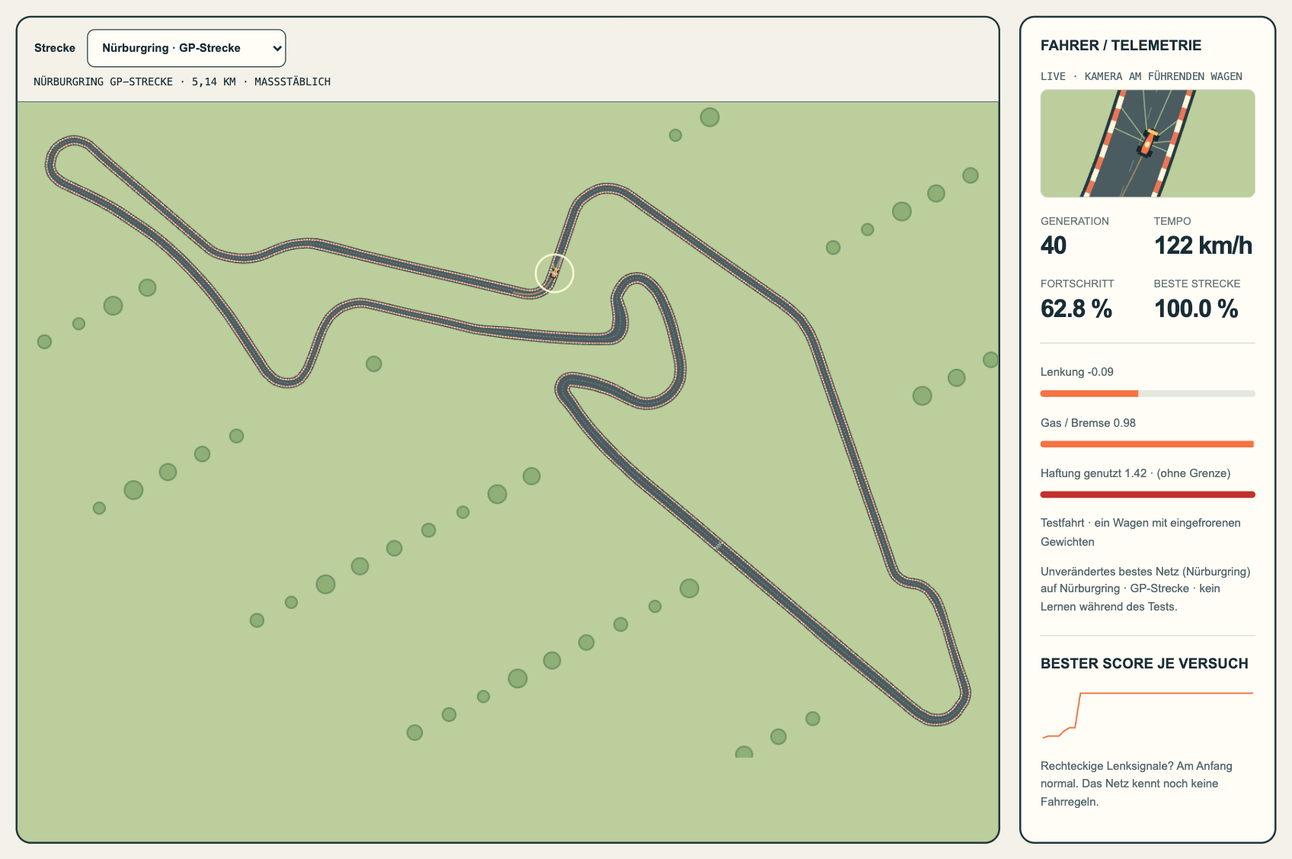
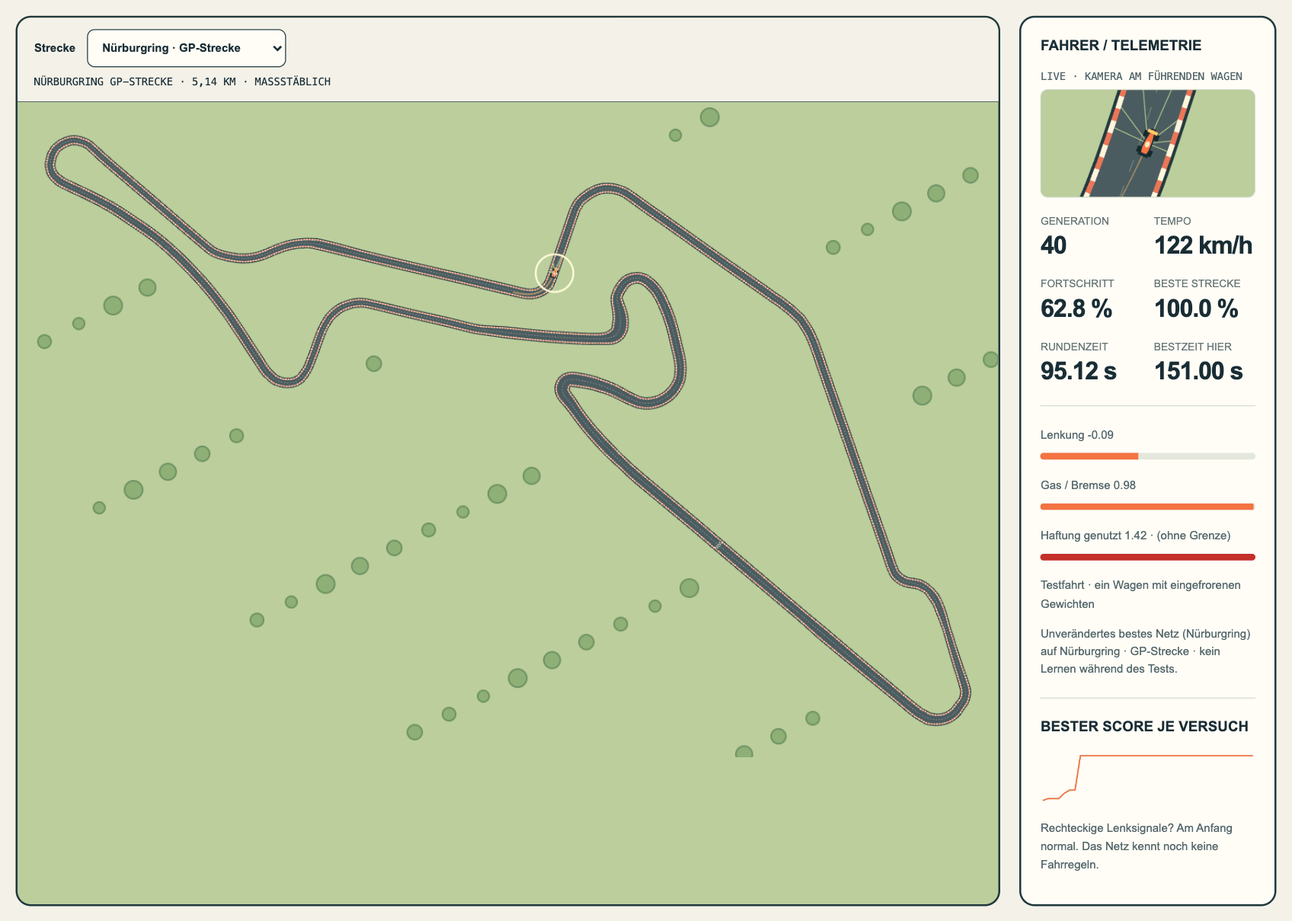
v2.6: Rundenzeit und Bestzeit je Strecke
- Telemetrie: "Rundenzeit" läuft live, "Bestzeit hier" zeigt die beste
  geschaffte Runde auf der gewählten Strecke (je Fahrer und Physik).
- Bestzeiten werden gespeichert und als bestLaps exportiert; ältere
  Dateien werden aus Test- und Trainingsprotokollen ergänzt.
- README-Bilder neu erzeugt.

diff --git a/racing-lab-v2/index.html b/racing-lab-v2/index.html
@@ -1,3 +1,3 @@
 <!doctype html><html lang="de"><meta charset="utf-8"><meta name="viewport" content="width=device-width,initial-scale=1"><title>Racing Lab v2</title><style>
 :root{font-family:Arial,sans-serif;color:#192d35;background:#f3f1e8}*{box-sizing:border-box}body{margin:0}header{padding:26px 4vw;display:flex;justify-content:space-between;align-items:center;border-bottom:2px solid #20383c}header strong{font-size:22px;letter-spacing:-1px}.tag{font:11px monospace;letter-spacing:2px}main{padding:28px 4vw;max-width:1600px;margin:auto}.intro{display:flex;justify-content:space-between;align-items:end;gap:20px}h1{font-size:clamp(30px,4vw,58px);letter-spacing:-2px;margin:10px 0}p{line-height:1.55;color:#52656a}.live{background:#dceca9;padding:9px 14px;border:1px solid #20383c;border-radius:20px;font:12px monospace;white-space:nowrap}.layout{display:grid;grid-template-columns:minmax(0,1fr) 270px;gap:20px;margin-top:24px}.arena{border:2px solid #20383c;border-radius:16px;overflow:hidden;background:#bbce9c;position:relative;min-width:0}canvas{display:block;width:100%;aspect-ratio:1.5}.race-view{position:relative;width:100%;aspect-ratio:3/2}.race-view>canvas{width:100%;height:100%;aspect-ratio:auto}.vehicle-layer{position:absolute;inset:0;width:100%;height:100%;pointer-events:none;overflow:visible;z-index:2}.car-focus{border:1px solid #d7dcd1;border-radius:8px;overflow:hidden;margin-bottom:18px;background:#bbce9c}.car-focus canvas{width:100%;height:auto;aspect-ratio:2}.focus-label{font:11px monospace;margin:0 0 7px;color:#52656a}.track-toolbar{background:#f3f1e8;border-bottom:1px solid #20383c;padding:12px 18px}.track-toolbar label{display:flex;align-items:center;gap:12px;font-size:12px;font-weight:bold}.track-toolbar select{max-width:100%;min-width:0;font-size:12px}.track-toolbar .caption{padding:8px 0 0;border:0;line-height:1.5}.caption{background:#f3f1e8;border-bottom:1px solid #20383c;padding:12px 18px;font:11px monospace;line-height:1.5}.panel{background:#fffdf6;border:2px solid #20383c;border-radius:16px;padding:20px}.panel h2{font-size:15px;margin:0 0 18px}.metrics{display:grid;grid-template-columns:1fr 1fr;gap:18px 12px}.metrics label{font-size:11px;color:#687677;display:block}.metrics b{display:block;font-size:26px;margin-top:5px;letter-spacing:-1px}button,select{font:inherit;border:1.5px solid #20383c;border-radius:8px;padding:11px;background:#fffdf6;color:#192d35;cursor:pointer}button.primary{background:#f47342;font-weight:bold;box-shadow:3px 3px 0 #20383c}button:hover{filter:brightness(.96)}button:disabled{opacity:.45;cursor:not-allowed}.controls{display:flex;gap:9px;margin-top:20px;flex-wrap:wrap;align-items:center}.controls label{font-size:12px}.bar{height:7px;background:#e4e7dc;border-radius:9px;margin:9px 0 17px;overflow:hidden}.bar i{display:block;background:#f47342;height:100%;width:0}.small{font-size:12px;line-height:1.6;color:#52656a}.divider{border-top:1px solid #d7dcd1;margin:20px 0}.status{font-size:12px;min-height:38px;margin:12px 0}.bottom{display:grid;grid-template-columns:1fr 1fr 1fr;gap:26px;margin-top:22px}.bottom h3{font-size:14px}.bottom p{font-size:13px}input{accent-color:#f47342}footer{font:11px monospace;color:#63726e;margin-top:25px}#history{height:60px;width:100%;aspect-ratio:auto} @media(max-width:850px){.layout{grid-template-columns:1fr}.panel .metrics{grid-template-columns:repeat(4,1fr)}.intro{display:block}.bottom{grid-template-columns:1fr;gap:0}.live{display:inline-block}header{padding:18px 4vw}.metrics b{font-size:22px}}
-</style><header><strong>RACING LAB<span style="color:#ed7040"> / 02</span></strong><span class="tag">LEARNING BY DRIVING</span></header><main><div class="intro"><div><span class="tag">NEURONALES FAHREXPERIMENT</span><h1>Viele Wagen. Eine Evolution.</h1><p>Abstände messen. Lenken. Weiterkommen. Die Besten vererben ihre Gewichte an die nächste Generation.</p></div><span class="live" id="badge">● BEREIT ZUM LERNEN</span></div><div class="layout"><div class="arena"><div class="track-toolbar"><label>Strecke <select id="courseSelect"><option value="training">Testkurs 01 · Training</option><option value="curves">Testkurs 02 · Wechselkurven</option><option value="oval">Testkurs 03 · Weite Bögen</option><option value="hairpin">Testkurs 04 · Enge Kurven</option><option value="reverse">Testkurs 05 · Gegenrichtung</option><option value="nuerburgring">Nürburgring · GP-Strecke</option></select></label><div class="caption" id="courseCaption">TESTKURS 01 · VOGELPERSPEKTIVE · EIN FAHRER</div></div><div class="race-view"><canvas id="race" aria-label="Rennstrecke aus der Vogelperspektive mit einem lernenden Formelwagen"></canvas><svg class="vehicle-layer" viewBox="0 0 1200 800" aria-label="Aktuelle Position des Rennwagens"><g id="collision-marker" visibility="hidden" fill="none" stroke="#e53525" stroke-width="3"><circle r="23"/><path d="M-8-8L8 8M8-8L-8 8"/></g><g id="vehicle-position" transform="translate(260 630)"><circle r="23" fill="none" stroke="#fffbd8" stroke-width="2" vector-effect="non-scaling-stroke"/><g id="vehicle-heading"><path d="M-8-7V7M8-7V7" stroke="#172a30" stroke-width="6"/><path d="M14-2L3-4L-7-4L-11-3V3L-7 4L3 4L14 2Z" id="vehicle-body" fill="#ff743a" stroke="#fff8db" stroke-width="1.3"/><path d="M12-5V5" stroke="#ffcd65" stroke-width="3"/><path d="M-12-5V5" stroke="#172a30" stroke-width="3"/><ellipse cx="-1" cy="0" rx="3" ry="2" fill="#fff8db"/></g></g></svg></div></div><aside class="panel"><h2>FAHRER / TELEMETRIE</h2><div class="focus-label" id="focusLabel">LIVE · KAMERA AM WAGEN</div><div class="car-focus"><canvas id="car-focus" width="320" height="160" aria-label="Vergrößerter Live-Ausschnitt des fahrenden Autos"></canvas></div><div class="metrics"><div><label id="attemptLabel">GENERATION</label><b id="attempt">1</b></div><div><label>TEMPO</label><b id="speed">0</b></div><div><label>FORTSCHRITT</label><b id="progress">0 %</b></div><div><label>BESTE STRECKE</label><b id="best">0 %</b></div></div><div class="divider"></div><label class="small">Lenkung <span id="steer">0.00</span></label><div class="bar"><i id="steerbar"></i></div><label class="small">Gas / Bremse <span id="pedal">0.00</span></label><div class="bar"><i id="pedalbar"></i></div><label class="small">Haftung genutzt <span id="gripUse">0.00</span></label><div class="bar"><i id="gripbar"></i></div><p id="popInfo" class="small"></p><p id="status" class="status">Ein zufälliges Netz wartet auf seinen ersten Fahrversuch.</p><div class="divider"></div><h2>BESTER SCORE JE VERSUCH</h2><canvas id="history" aria-label="Verlauf der besten Trainingsbewertung"></canvas><p class="small">Rechteckige Lenksignale? Am Anfang normal. Das Netz kennt noch keine Fahrregeln.</p></aside></div><div class="controls"><label>Fahrer <select id="driver"><option value="training">trainiert auf Testkurs 01</option><option value="nuerburgring">trainiert auf Nürburgring</option></select></label><label>Physik <select id="physics"><option value="slide">Haftung 1,5 g + Gleitreibung (v2.2)</option><option value="grip">Haftung 1,5 g ohne Gleitreibung (v2.1)</option><option value="v1">ohne Haftungsgrenze (v1)</option></select></label><label>Lernverfahren <select id="method"><option value="population">Population (genetischer Algorithmus)</option><option value="single">Einzelwagen (Hill Climbing wie v1)</option></select></label><label>Wagen <select id="popSize"><option value="20">20</option><option value="40" selected>40</option><option value="80">80</option></select></label></div><div class="controls"><button class="primary" id="toggle">Training starten ↗</button><button id="bestRun">Besten Fahrer testen</button><button id="reset">Neu beginnen</button><label>Zeitraffer <select id="rate"><option value="1">1×</option><option value="4">4×</option><option value="12">12×</option><option value="40">40×</option><option value="120">120×</option></select></label><label><input type="checkbox" id="rays" checked> Sensoren</label></div><p class="small" id="courseNotice">Training und unveränderte Testfahrten verfügbar.</p><section class="panel" style="margin-top:24px"><h2>STRECKENTEST / PRÜFPROTOKOLL</h2><p class="small">Wähle eine neue Strecke und teste den gespeicherten Fahrer. Seine Gewichte werden dabei eingefroren. Die sechs Streckenprofile sind fest gespeichert und jederzeit wieder auswählbar. Testkurs 01 bleibt die Trainingsstrecke. Für jeden Test werden Datum, Strecke, Physik, Lernverfahren, Streckenfortschritt, Fahrzeit und Ergebnis protokolliert. Die zuletzt gewählte Strecke wird in diesem Browser gemerkt.</p><div id="transferResults" class="small" style="white-space:pre-line;overflow-wrap:anywhere">Noch keine Testfahrt abgeschlossen.</div></section><section class="panel" style="margin-top:24px"><h2>DAS NETZ / LIVE</h2><p class="small">Links: sieben Abstände, Tempo und Drehrate. Mitte: zehn versteckte Neuronen. Rechts: Lenkung und Fahrpedal. Orange = positiv, Blau = negativ. Linienbreite = Betrag des Gewichts. Knotenfarbe = Aktivierung. Gewichte ändern sich nach einem Versuch, Aktivierungen während der Fahrt.</p><canvas id="network" style="width:100%;aspect-ratio:2.7" aria-label="Neuronales Netz mit Eingängen, Gewichten und Aktivierungen"></canvas><div class="controls"><button id="exportLog">Protokoll als JSON</button><button id="exportCsv">Versuche als CSV</button><button id="importLog" type="button">JSON-Stand laden</button><input id="importFile" type="file" accept="application/json,.json" hidden><span class="small" id="logCount">0 protokollierte Versuche</span></div><p class="small" id="storageStatus" role="status">Trainingsstand wird nach dem ersten abgeschlossenen Versuch in diesem Browser gespeichert.</p><p class="small" id="weightDetail">Eine Verbindung anklicken, um ihren exakten Gewichtswert zu sehen. JSON enthält Netzgewichte pro Versuch sowie die letzten 10.000 Sensor- und Aktionsstichproben (5 Hz Simulationszeit). Das beste Netz, Scores und die letzten 200 Versuche werden nach jedem Lauf im Browser gespeichert. Die letzten 1.000 Messpunkte werden mitgespeichert; für ein vollständigeres Protokoll regelmäßig JSON exportieren. CSV enthält die Versuchsergebnisse. Mit „JSON-Stand laden“ kannst du einen früheren Export übernehmen. „Neu beginnen“ löscht den gespeicherten Stand.</p></section><div class="bottom"><div><h3>01 / Was der Fahrer sieht</h3><p>Sieben virtuelle Abstandssensoren, Geschwindigkeit und Drehrate. Das Netz erhält keine Streckenkarte und keine vorgegebene Ideallinie.</p></div><div><h3>02 / Wie er lernt</h3><p>Ein kleines Netz mit zehn versteckten Neuronen steuert Lenkung und Fahrpedal. Viele Wagen fahren gleichzeitig. Die besten bleiben unverändert (Elite), der Rest entsteht durch Turnierauswahl, Kreuzung ganzer Neuronen und Mutation.</p></div><div><h3>03 / Was sich lohnt</h3><p>Vorwärtsfortschritt entlang des Kurses minus Zeitabzug. Wandkontakt beendet den Versuch. Mit Haftungsgrenze rutscht ein zu schneller Wagen in der Kurve nach außen: Er muss vorher bremsen. Ein Kursabschluss erhält einen Bonus. Standzeit und Fahrdauer sind begrenzt.</p></div></div><footer>2D-PROTOTYP · VEREINFACHTE FAHRPHYSIK · EINE FAHRZEUGLÄNGE ≈ 5,5 m · FAHRBAHNBREITE ≈ 12 m · STRECKENDATEN NÜRBURGRING: TUMFTM RACETRACK-DATABASE (LGPL-3.0), © OPENSTREETMAP-MITWIRKENDE · CODE: MIT · PRIVATES LERNPROJEKT, KEINE VERBINDUNG ZUR NÜRBURGRING GMBH</footer></main><script src="tracks/nuerburgring.js"></script><script src="sim.js?v=v2-population"></script></html>
+</style><header><strong>RACING LAB<span style="color:#ed7040"> / 02</span></strong><span class="tag">LEARNING BY DRIVING</span></header><main><div class="intro"><div><span class="tag">NEURONALES FAHREXPERIMENT</span><h1>Viele Wagen. Eine Evolution.</h1><p>Abstände messen. Lenken. Weiterkommen. Die Besten vererben ihre Gewichte an die nächste Generation.</p></div><span class="live" id="badge">● BEREIT ZUM LERNEN</span></div><div class="layout"><div class="arena"><div class="track-toolbar"><label>Strecke <select id="courseSelect"><option value="training">Testkurs 01 · Training</option><option value="curves">Testkurs 02 · Wechselkurven</option><option value="oval">Testkurs 03 · Weite Bögen</option><option value="hairpin">Testkurs 04 · Enge Kurven</option><option value="reverse">Testkurs 05 · Gegenrichtung</option><option value="nuerburgring">Nürburgring · GP-Strecke</option></select></label><div class="caption" id="courseCaption">TESTKURS 01 · VOGELPERSPEKTIVE · EIN FAHRER</div></div><div class="race-view"><canvas id="race" aria-label="Rennstrecke aus der Vogelperspektive mit einem lernenden Formelwagen"></canvas><svg class="vehicle-layer" viewBox="0 0 1200 800" aria-label="Aktuelle Position des Rennwagens"><g id="collision-marker" visibility="hidden" fill="none" stroke="#e53525" stroke-width="3"><circle r="23"/><path d="M-8-8L8 8M8-8L-8 8"/></g><g id="vehicle-position" transform="translate(260 630)"><circle r="23" fill="none" stroke="#fffbd8" stroke-width="2" vector-effect="non-scaling-stroke"/><g id="vehicle-heading"><path d="M-8-7V7M8-7V7" stroke="#172a30" stroke-width="6"/><path d="M14-2L3-4L-7-4L-11-3V3L-7 4L3 4L14 2Z" id="vehicle-body" fill="#ff743a" stroke="#fff8db" stroke-width="1.3"/><path d="M12-5V5" stroke="#ffcd65" stroke-width="3"/><path d="M-12-5V5" stroke="#172a30" stroke-width="3"/><ellipse cx="-1" cy="0" rx="3" ry="2" fill="#fff8db"/></g></g></svg></div></div><aside class="panel"><h2>FAHRER / TELEMETRIE</h2><div class="focus-label" id="focusLabel">LIVE · KAMERA AM WAGEN</div><div class="car-focus"><canvas id="car-focus" width="320" height="160" aria-label="Vergrößerter Live-Ausschnitt des fahrenden Autos"></canvas></div><div class="metrics"><div><label id="attemptLabel">GENERATION</label><b id="attempt">1</b></div><div><label>TEMPO</label><b id="speed">0</b></div><div><label>FORTSCHRITT</label><b id="progress">0 %</b></div><div><label>BESTE STRECKE</label><b id="best">0 %</b></div><div><label>RUNDENZEIT</label><b id="lapTime">0.00 s</b></div><div><label>BESTZEIT HIER</label><b id="bestLap">–</b></div></div><div class="divider"></div><label class="small">Lenkung <span id="steer">0.00</span></label><div class="bar"><i id="steerbar"></i></div><label class="small">Gas / Bremse <span id="pedal">0.00</span></label><div class="bar"><i id="pedalbar"></i></div><label class="small">Haftung genutzt <span id="gripUse">0.00</span></label><div class="bar"><i id="gripbar"></i></div><p id="popInfo" class="small"></p><p id="status" class="status">Ein zufälliges Netz wartet auf seinen ersten Fahrversuch.</p><div class="divider"></div><h2>BESTER SCORE JE VERSUCH</h2><canvas id="history" aria-label="Verlauf der besten Trainingsbewertung"></canvas><p class="small">Rechteckige Lenksignale? Am Anfang normal. Das Netz kennt noch keine Fahrregeln.</p></aside></div><div class="controls"><label>Fahrer <select id="driver"><option value="training">trainiert auf Testkurs 01</option><option value="nuerburgring">trainiert auf Nürburgring</option></select></label><label>Physik <select id="physics"><option value="slide">Haftung 1,5 g + Gleitreibung (v2.2)</option><option value="grip">Haftung 1,5 g ohne Gleitreibung (v2.1)</option><option value="v1">ohne Haftungsgrenze (v1)</option></select></label><label>Lernverfahren <select id="method"><option value="population">Population (genetischer Algorithmus)</option><option value="single">Einzelwagen (Hill Climbing wie v1)</option></select></label><label>Wagen <select id="popSize"><option value="20">20</option><option value="40" selected>40</option><option value="80">80</option></select></label></div><div class="controls"><button class="primary" id="toggle">Training starten ↗</button><button id="bestRun">Besten Fahrer testen</button><button id="reset">Neu beginnen</button><label>Zeitraffer <select id="rate"><option value="1">1×</option><option value="4">4×</option><option value="12">12×</option><option value="40">40×</option><option value="120">120×</option></select></label><label><input type="checkbox" id="rays" checked> Sensoren</label></div><p class="small" id="courseNotice">Training und unveränderte Testfahrten verfügbar.</p><section class="panel" style="margin-top:24px"><h2>STRECKENTEST / PRÜFPROTOKOLL</h2><p class="small">Wähle eine neue Strecke und teste den gespeicherten Fahrer. Seine Gewichte werden dabei eingefroren. Die sechs Streckenprofile sind fest gespeichert und jederzeit wieder auswählbar. Testkurs 01 bleibt die Trainingsstrecke. Für jeden Test werden Datum, Strecke, Physik, Lernverfahren, Streckenfortschritt, Fahrzeit und Ergebnis protokolliert. Die zuletzt gewählte Strecke wird in diesem Browser gemerkt.</p><div id="transferResults" class="small" style="white-space:pre-line;overflow-wrap:anywhere">Noch keine Testfahrt abgeschlossen.</div></section><section class="panel" style="margin-top:24px"><h2>DAS NETZ / LIVE</h2><p class="small">Links: sieben Abstände, Tempo und Drehrate. Mitte: zehn versteckte Neuronen. Rechts: Lenkung und Fahrpedal. Orange = positiv, Blau = negativ. Linienbreite = Betrag des Gewichts. Knotenfarbe = Aktivierung. Gewichte ändern sich nach einem Versuch, Aktivierungen während der Fahrt.</p><canvas id="network" style="width:100%;aspect-ratio:2.7" aria-label="Neuronales Netz mit Eingängen, Gewichten und Aktivierungen"></canvas><div class="controls"><button id="exportLog">Protokoll als JSON</button><button id="exportCsv">Versuche als CSV</button><button id="importLog" type="button">JSON-Stand laden</button><input id="importFile" type="file" accept="application/json,.json" hidden><span class="small" id="logCount">0 protokollierte Versuche</span></div><p class="small" id="storageStatus" role="status">Trainingsstand wird nach dem ersten abgeschlossenen Versuch in diesem Browser gespeichert.</p><p class="small" id="weightDetail">Eine Verbindung anklicken, um ihren exakten Gewichtswert zu sehen. JSON enthält Netzgewichte pro Versuch sowie die letzten 10.000 Sensor- und Aktionsstichproben (5 Hz Simulationszeit). Das beste Netz, Scores und die letzten 200 Versuche werden nach jedem Lauf im Browser gespeichert. Die letzten 1.000 Messpunkte werden mitgespeichert; für ein vollständigeres Protokoll regelmäßig JSON exportieren. CSV enthält die Versuchsergebnisse. Mit „JSON-Stand laden“ kannst du einen früheren Export übernehmen. „Neu beginnen“ löscht den gespeicherten Stand.</p></section><div class="bottom"><div><h3>01 / Was der Fahrer sieht</h3><p>Sieben virtuelle Abstandssensoren, Geschwindigkeit und Drehrate. Das Netz erhält keine Streckenkarte und keine vorgegebene Ideallinie.</p></div><div><h3>02 / Wie er lernt</h3><p>Ein kleines Netz mit zehn versteckten Neuronen steuert Lenkung und Fahrpedal. Viele Wagen fahren gleichzeitig. Die besten bleiben unverändert (Elite), der Rest entsteht durch Turnierauswahl, Kreuzung ganzer Neuronen und Mutation.</p></div><div><h3>03 / Was sich lohnt</h3><p>Vorwärtsfortschritt entlang des Kurses minus Zeitabzug. Wandkontakt beendet den Versuch. Mit Haftungsgrenze rutscht ein zu schneller Wagen in der Kurve nach außen: Er muss vorher bremsen. Ein Kursabschluss erhält einen Bonus. Standzeit und Fahrdauer sind begrenzt.</p></div></div><footer>2D-PROTOTYP · VEREINFACHTE FAHRPHYSIK · EINE FAHRZEUGLÄNGE ≈ 5,5 m · FAHRBAHNBREITE ≈ 12 m · STRECKENDATEN NÜRBURGRING: TUMFTM RACETRACK-DATABASE (LGPL-3.0), © OPENSTREETMAP-MITWIRKENDE · CODE: MIT · PRIVATES LERNPROJEKT, KEINE VERBINDUNG ZUR NÜRBURGRING GMBH</footer></main><script src="tracks/nuerburgring.js"></script><script src="sim.js?v=v2-population"></script></html>

diff --git a/racing-lab-v2/sim.js b/racing-lab-v2/sim.js
@@ -80,18 +80,22 @@ const label=id=>courses[id].short||courses[id].name;
 const nowIso=()=>new Date().toISOString(),day=iso=>{const d=new Date(iso||NaN),p=n=>String(n).padStart(2,'0');return isNaN(d)?'Datum unbekannt':d.getFullYear()+'-'+p(d.getMonth()+1)+'-'+p(d.getDate())+' '+p(d.getHours())+':'+p(d.getMinutes());},// Ortszeit
   algoLabel=()=>method==='single'?'Einzelwagen (Hill Climbing)':'Population (genetischer Algorithmus) · '+popSize+' Wagen';
 let origin={};// wie der aktuelle beste Fahrer entstanden ist: {date, algorithm}
+let bestLaps={};// beste Rundenzeit je Strecke (Sekunden) für diesen Fahrer und diese Physik
+const noteLap=(id,t)=>{if(Number.isFinite(t)&&!(bestLaps[id]<=t))bestLaps[id]=t;},secs=t=>t.toFixed(2)+' s',
+  lapsFrom=(tests,recs,trainId)=>{const out={};for(const r of tests||[])if(r&&r.completed&&courses[r.trackId]&&Number.isFinite(r.time)&&!(out[r.trackId]<=r.time))out[r.trackId]=r.time;
+    for(const r of recs||[])if(r&&r.reason==='Runde geschafft!'&&Number.isFinite(r.time)&&!(out[trainId]<=r.time))out[trainId]=r.time;return out;};
 
 function saveCheckpoint(){
   if(!incumbent)return;
-  const ok=store.set(keys.driver(driverId),JSON.stringify({version:2,driverId,origin,attempt,generation,bestScore,bestProgress,incumbent,history:history.slice(-180),records:records.slice(-200),samples:samples.slice(-1000),testResults:testResults.slice(-50)}));
+  const ok=store.set(keys.driver(driverId),JSON.stringify({version:2,driverId,origin,bestLaps,attempt,generation,bestScore,bestProgress,incumbent,history:history.slice(-180),records:records.slice(-200),samples:samples.slice(-1000),testResults:testResults.slice(-50)}));
   $('storageStatus').textContent=ok?'✓ Bester Fahrer ('+label(driverId)+') und letzte 200 Versuche automatisch in diesem Browser gespeichert.':'Automatisches Speichern nicht verfügbar. Bitte JSON exportieren.';
 }
-function clearState(){origin={};incumbent=null;bestScore=-Infinity;bestProgress=0;attempt=1;generation=1;history=[];records=[];samples=[];testResults=[];}
+function clearState(){origin={};bestLaps={};incumbent=null;bestScore=-Infinity;bestProgress=0;attempt=1;generation=1;history=[];records=[];samples=[];testResults=[];}
 function restoreCheckpoint(id){
   clearState();
   try{let raw=store.get(keys.driver(id)),fromV1=false;if(!raw&&id==='training'&&physics==='v1'){raw=store.get(keys.v1);fromV1=!!raw;}if(!raw)return false;const data=JSON.parse(raw);
     if(!Array.isArray(data.incumbent)||data.incumbent.length!==W||!data.incumbent.every(Number.isFinite)||!Number.isFinite(data.bestScore)||!Number.isFinite(data.bestProgress)||!Number.isSafeInteger(data.attempt))return false;
-    origin=data.origin&&typeof data.origin==='object'?data.origin:{};incumbent=data.incumbent.slice();bestScore=data.bestScore;bestProgress=Math.max(0,Math.min(tracks[id].total,data.bestProgress));attempt=data.attempt;generation=Number.isSafeInteger(data.generation)?data.generation:1;
+    origin=data.origin&&typeof data.origin==='object'?data.origin:{};bestLaps=data.bestLaps&&typeof data.bestLaps==='object'?data.bestLaps:lapsFrom(data.testResults,data.records,id);incumbent=data.incumbent.slice();bestScore=data.bestScore;bestProgress=Math.max(0,Math.min(tracks[id].total,data.bestProgress));attempt=data.attempt;generation=Number.isSafeInteger(data.generation)?data.generation:1;
     history=Array.isArray(data.history)?data.history.filter(Number.isFinite).slice(-180):[];records=Array.isArray(data.records)?data.records.slice(-200):[];samples=Array.isArray(data.samples)?data.samples.slice(-1000):[];testResults=Array.isArray(data.testResults)?data.testResults.slice(-50):[];
     $('logCount').textContent=records.length+' gespeicherte Versuche';$('storageStatus').textContent=fromV1?'✓ Fahrer aus Racing Lab v1 übernommen.':'✓ Gespeichertes Training geladen. Der nächste Versuch baut auf dem besten Fahrer auf.';
     return true;
@@ -131,6 +135,7 @@ function endCar(c,reason){
   const improved=c.score>bestScore;c.improved=improved;
   records.push({at:nowIso(),algorithm:algoLabel(),attempt,generation,car:c.id,score:c.score,reason,improved,time:c.time,progress:c.progress,weights:c.weights.slice(),deltaFromBest:incumbent?c.weights.map((w,i)=>w-incumbent[i]):null});if(records.length>5000)records.shift();
   $('logCount').textContent=records.length+' protokollierte Versuche';
+  if(reason==='Runde geschafft!')noteLap(trackId,c.time);
   if(improved){bestScore=c.score;incumbent=c.weights.slice();origin={date:nowIso(),algorithm:algoLabel()};bestProgress=Math.max(bestProgress,c.max);status='Verbesserung gespeichert · '+reason;}
   attempt++;
 }
@@ -154,7 +159,7 @@ function step(){
 }
 
 // ---------- Tests auf anderen Strecken ----------
-function recordTest(c){const result={date:nowIso(),physics:physicsLabel(),algorithm:origin.algorithm||'Lernverfahren unbekannt',trainedOn:courses[driverId].name,trainedAt:origin.date||null,trackId,course:courses[trackId].name,driver:'Fahrer '+label(driverId)+(physics==='grip'?' · Haftung':physics==='slide'?' · Gleitreibung':''),progressPercent:Math.max(0,Math.min(100,c.max/T.total*100)),time:c.time,completed:c.reason==='Runde geschafft!',reason:c.reason,weightsUnchanged:true};testResults.push(result);if(testResults.length>50)testResults.shift();showTestResults();saveCheckpoint();status='Test beendet · '+c.reason;$('status').textContent=status;return result;}
+function recordTest(c){if(c.reason==='Runde geschafft!')noteLap(trackId,c.time);const result={date:nowIso(),physics:physicsLabel(),algorithm:origin.algorithm||'Lernverfahren unbekannt',trainedOn:courses[driverId].name,trainedAt:origin.date||null,trackId,course:courses[trackId].name,driver:'Fahrer '+label(driverId)+(physics==='grip'?' · Haftung':physics==='slide'?' · Gleitreibung':''),progressPercent:Math.max(0,Math.min(100,c.max/T.total*100)),time:c.time,completed:c.reason==='Runde geschafft!',reason:c.reason,weightsUnchanged:true};testResults.push(result);if(testResults.length>50)testResults.shift();showTestResults();saveCheckpoint();status='Test beendet · '+c.reason;$('status').textContent=status;return result;}
 function showTestResults(){const valid=testResults.filter(r=>r&&courses[r.trackId]&&typeof r.driver==='string'&&Number.isFinite(r.progressPercent)&&Number.isFinite(r.time));$('transferResults').textContent=valid.slice(-10).map(r=>[r.date&&day(r.date),r.course,r.driver,r.physics,r.algorithm,r.progressPercent.toFixed(1)+' %',r.time.toFixed(2)+' s',r.reason].filter(Boolean).join(' | ')).join('\n')||'Noch keine Testfahrt abgeschlossen.';}
 function beginTest(){if(!incumbent){$('status').textContent='Zuerst einen Fahrer trainieren oder einen JSON-Stand laden.';return;}
   running=true;testMode=true;collision=null;acc=0;startGeneration([incumbent.slice()]);$('status').textContent='Unverändertes bestes Netz ('+label(driverId)+') auf '+courses[trackId].name+' · kein Lernen während des Tests.';}
@@ -210,7 +215,7 @@ function draw(){
   const fs=1.6;drawScene(fx,fs,160-lead.x*fs,80-lead.y*fs,320,160);
   const [steer,pedal]=lead.act.output,alive=cars.filter(c=>c.alive).length;
   $('gripUse').textContent=lead.gripUse.toFixed(2)+(lead.slip>0?' · rutscht!':physics==='v1'&&lead.gripUse>1?' · (ohne Grenze)':'');$('gripbar').style.width=Math.min(100,lead.gripUse*100)+'%';$('gripbar').style.background=lead.slip>0||lead.gripUse>1?'#c4302b':'#f47342';
-  $('attempt').textContent=method==='single'?attempt:generation;$('speed').textContent=Math.round(lead.v*.2*3.6)+' km/h';$('progress').textContent=Math.max(0,Math.min(100,lead.progress/T.total*100)).toFixed(1)+' %';$('best').textContent=(bestProgress/tracks[driverId].total*100).toFixed(1)+' %';
+  $('attempt').textContent=method==='single'?attempt:generation;$('speed').textContent=Math.round(lead.v*.2*3.6)+' km/h';$('lapTime').textContent=secs(lead.time);$('bestLap').textContent=bestLaps[trackId]?secs(bestLaps[trackId]):'–';$('progress').textContent=Math.max(0,Math.min(100,lead.progress/T.total*100)).toFixed(1)+' %';$('best').textContent=(bestProgress/tracks[driverId].total*100).toFixed(1)+' %';
   $('steer').textContent=steer.toFixed(2);$('pedal').textContent=pedal.toFixed(2);$('steerbar').style.width=(steer+1)*50+'%';$('pedalbar').style.width=(pedal+1)*50+'%';
   $('popInfo').textContent=testMode?'Testfahrt · ein Wagen mit eingefrorenen Gewichten':method==='single'?'Einzelwagen · Hill Climbing wie v1':alive+' von '+cars.length+' Wagen unterwegs · Generation '+generation+' · '+attempt+' Fahrten gesamt';
   $('badge').textContent=running?(testMode?'● TESTFAHRT':'● TRAINING LÄUFT'):'● PAUSIERT';$('toggle').textContent=running&&!testMode?'Pause ❚❚':'Training starten ↗';
@@ -227,7 +232,7 @@ nc.onclick=e=>{const r=nc.getBoundingClientRect(),x=(e.clientX-r.left)*1100/r.wi
 
 // ---------- Export / Import ----------
 function download(name,data,type){const u=URL.createObjectURL(new Blob([data],{type})),a=document.createElement('a');a.href=u;a.download=name;a.click();setTimeout(()=>URL.revokeObjectURL(u),1000);}
-$('exportLog').onclick=()=>download('racing-'+driverId+'-'+physics+'-'+nowIso().slice(0,10)+'.json',JSON.stringify({formatVersion:1,app:'racing-lab-v2',meta:{exportedAt:nowIso(),trainingTrack:courses[driverId].name,physics:physicsLabel(),algorithm:origin.algorithm||algoLabel(),trainedAt:origin.date||null},algorithm:method==='single'?'sequential random mutation with elitist selection':'genetic algorithm: elitism, tournament selection, neuron-block crossover, mutation',population:method==='single'?1:popSize,generation,physics:physicsJson(),architecture:[9,10,2],weightLayout:'hidden: bias then 9 inputs per neuron; output: bias then 10 hidden per neuron',reward:'min(progress, lap) - 0.6*time + 500 for completed lap',sensorRange:180,track:T.pts,trackId,courseProfiles:Object.entries(courses).map(([id,c])=>({id,name:c.name,nodes:c.nodes||null})),trainingTrackId:driverId,bestProgress,trainingLength:tracks[driverId].total,testResults,bestScore:Number.isFinite(bestScore)?bestScore:null,bestWeights:incumbent,currentWeights:(leader||cars[0]).weights,records:records.slice(-2000),samples},null,2),'application/json');
+$('exportLog').onclick=()=>download('racing-'+driverId+'-'+physics+'-'+nowIso().slice(0,10)+'.json',JSON.stringify({formatVersion:1,app:'racing-lab-v2',bestLaps,meta:{exportedAt:nowIso(),trainingTrack:courses[driverId].name,physics:physicsLabel(),algorithm:origin.algorithm||algoLabel(),trainedAt:origin.date||null},algorithm:method==='single'?'sequential random mutation with elitist selection':'genetic algorithm: elitism, tournament selection, neuron-block crossover, mutation',population:method==='single'?1:popSize,generation,physics:physicsJson(),architecture:[9,10,2],weightLayout:'hidden: bias then 9 inputs per neuron; output: bias then 10 hidden per neuron',reward:'min(progress, lap) - 0.6*time + 500 for completed lap',sensorRange:180,track:T.pts,trackId,courseProfiles:Object.entries(courses).map(([id,c])=>({id,name:c.name,nodes:c.nodes||null})),trainingTrackId:driverId,bestProgress,trainingLength:tracks[driverId].total,testResults,bestScore:Number.isFinite(bestScore)?bestScore:null,bestWeights:incumbent,currentWeights:(leader||cars[0]).weights,records:records.slice(-2000),samples},null,2),'application/json');
 $('exportCsv').onclick=()=>download('racing-versuche-'+driverId+'-'+physics+'-'+nowIso().slice(0,10)+'.csv','date;trainingTrack;physics;algorithm;attempt;generation;car;score;time;progress;improved;reason\n'+records.map(r=>[r.at||'',courses[driverId].name,physicsLabel(),r.algorithm||'',r.attempt,r.generation??'',r.car??0,r.score,r.time,r.progress,r.improved,r.reason].join(';')).join('\n'),'text/csv');
 $('importLog').onclick=()=>$('importFile').click();
 $('importFile').onchange=async e=>{
@@ -241,6 +246,7 @@ $('importFile').onchange=async e=>{
     setMethod(data.population===1||/^sequential/.test(data.algorithm||'')?'single':'population');// weiter mit dem Verfahren, mit dem er trainiert wurde
     origin=data.meta&&typeof data.meta==='object'?{date:data.meta.trainedAt||null,algorithm:data.meta.algorithm||null}:{date:null,algorithm:/genetic/.test(data.algorithm||'')?'Population (genetischer Algorithmus)':'Einzelwagen (Hill Climbing)'};
     incumbent=data.bestWeights.slice();bestScore=data.bestScore;records=Array.isArray(data.records)?data.records.filter(r=>r&&Number.isSafeInteger(r.attempt)&&Number.isFinite(r.score)&&Number.isFinite(r.progress)&&Number.isFinite(r.time)).slice(-200):[];samples=Array.isArray(data.samples)?data.samples.slice(-1000):[];testResults=Array.isArray(data.testResults)?data.testResults.slice(-50):[];showTestResults();
+    bestLaps=data.bestLaps&&typeof data.bestLaps==='object'?{...data.bestLaps}:lapsFrom(data.testResults,data.records,target);
     bestProgress=Number.isFinite(data.bestProgress)?Math.max(0,Math.min(T.total,data.bestProgress)):Math.max(0,...records.filter(r=>r.improved).map(r=>Math.min(T.total,r.progress)));
     attempt=records.length?Math.max(...records.map(r=>r.attempt))+1:2;generation=Number.isSafeInteger(data.generation)?data.generation:1;collision=null;
     // Verlauf „Bester Score“ aus den mitgelieferten Versuchen nachbilden (laufendes Maximum)
@@ -268,5 +274,5 @@ if(!courses.nuerburgring){const o=[...$('courseSelect').options].find(o=>o.value
 function frame(t){if(last&&running){acc+=Math.min((t-last)/1000,.1)*Number($('rate').value);const t0=Date.now();let count=0;while(acc>=1/60&&count++<2000&&running){step();acc-=1/60;if(Date.now()-t0>14){acc=0;break;}}}else acc=0;last=t;draw();network();requestAnimationFrame(frame)}requestAnimationFrame(frame);
 // Deterministisches Schrittweise-Ausführen für lokale Prüfungen; keine externen Dienste.
 window.racingLab={step,reset:()=>{$('reset').onclick()},switchCourse,switchDriver,switchPhysics,setMethod,setPopulation:n=>{popSize=n;},beginTest,courseProfiles:()=>JSON.parse(JSON.stringify(courses)),
-  stats:()=>({trackId,driverId,method,physics,running,testMode,incumbent:incumbent?.slice(),testResults:testResults.slice(),attempt,generation,bestScore,bestProgress,total:T.total,history:history.slice(),cars:cars.length,alive:cars.filter(c=>c.alive).length,car:{...(leader||cars[0])},weights:(leader||cars[0]).weights.slice()})};
+  stats:()=>({bestLaps:{...bestLaps},trackId,driverId,method,physics,running,testMode,incumbent:incumbent?.slice(),testResults:testResults.slice(),attempt,generation,bestScore,bestProgress,total:T.total,history:history.slice(),cars:cars.length,alive:cars.filter(c=>c.alive).length,car:{...(leader||cars[0])},weights:(leader||cars[0]).weights.slice()})};
 })();

diff --git a/racing-lab-v2/python/train.py b/racing-lab-v2/python/train.py
@@ -71,6 +71,7 @@ def export(path, args, track, best, gen, log, tests=()):
         "bestProgress": best["progress"], "trainingLength": track.total,
         "bestScore": best["score"], "bestWeights": best["weights"],
         "records": log, "samples": [], "testResults": list(tests),
+        "bestLaps": {t["trackId"]: t["time"] for t in tests if t["completed"]},
     }
     with open(path, "w") as f:
         json.dump(data, f, indent=1)

diff --git a/racing-lab-v2/docs/Racing-Lab-Chronologie.md b/racing-lab-v2/docs/Racing-Lab-Chronologie.md
@@ -247,6 +247,17 @@ Das Paket enthält die ausführbare Oberfläche, den Simulationscode, Startanlei
   Nach dem Laden eines Fahrers blieb die Kurve „Bester Score“ leer. Sie wird jetzt aus den
   mitgelieferten Versuchen nachgebildet.
 
+## 18. v2.6: Rundenzeit und Bestzeit je Strecke
+
+- **Wunsch (Flo):** Die Zeit soll in der Anzeige stehen, und zwar je Strecke.
+- **Umsetzung:** Telemetrie zeigt „Rundenzeit“ (läuft live) und „Bestzeit hier“ (beste
+  geschaffte Runde auf der gewählten Strecke für Fahrer und Physik). Die Bestzeit stammt aus
+  Training und Testfahrten, wird gespeichert und als `bestLaps` exportiert. Ältere Dateien
+  werden aus ihren Test- und Trainingsprotokollen ergänzt.
+- **Messung (Flo, Browser):** Haftung + Gleitreibung, 40 Wagen, Testkurs 01: erste volle
+  Runde in Generation 25, Rundenzeit 33,40 s. Python-Vergleich mit derselben Physik:
+  Generation 12, 16 und 21 (Seeds 1–3).
+
 ## Technische Vereinfachungen
 
 Das Fahrzeug verwendet ein vereinfachtes kinematisches Modell mit Lenkung, Beschleunigen, Bremsen und geschwindigkeitsabhängigem Widerstand. Es werden keine Federung, Dämpfung, Reifenschlupf, Motorkennfelder oder Drehzahl simuliert.

diff --git a/README.md b/README.md
@@ -115,6 +115,7 @@ Mehr dazu in [`racing-lab-v2/python/README.md`](racing-lab-v2/python/README.md).
 | **v2.3** | Einzelwagen-Verfahren auch in Python |
 | **v2.4** | MIT-Lizenz, Quellenangaben, Repository öffentlich |
 | **v2.5** | README mit Bildern; Aufnahmeskript `racing-lab-v2/tools/screenshots.mjs` |
+| **v2.6** | Rundenzeit live und Bestzeit je Strecke in der Telemetrie |
 
 Jede Stufe hat ein Git-Tag. Die ausführliche Chronologie steht in
 [`racing-lab-v2/docs/Racing-Lab-Chronologie.md`](racing-lab-v2/docs/Racing-Lab-Chronologie.md).
